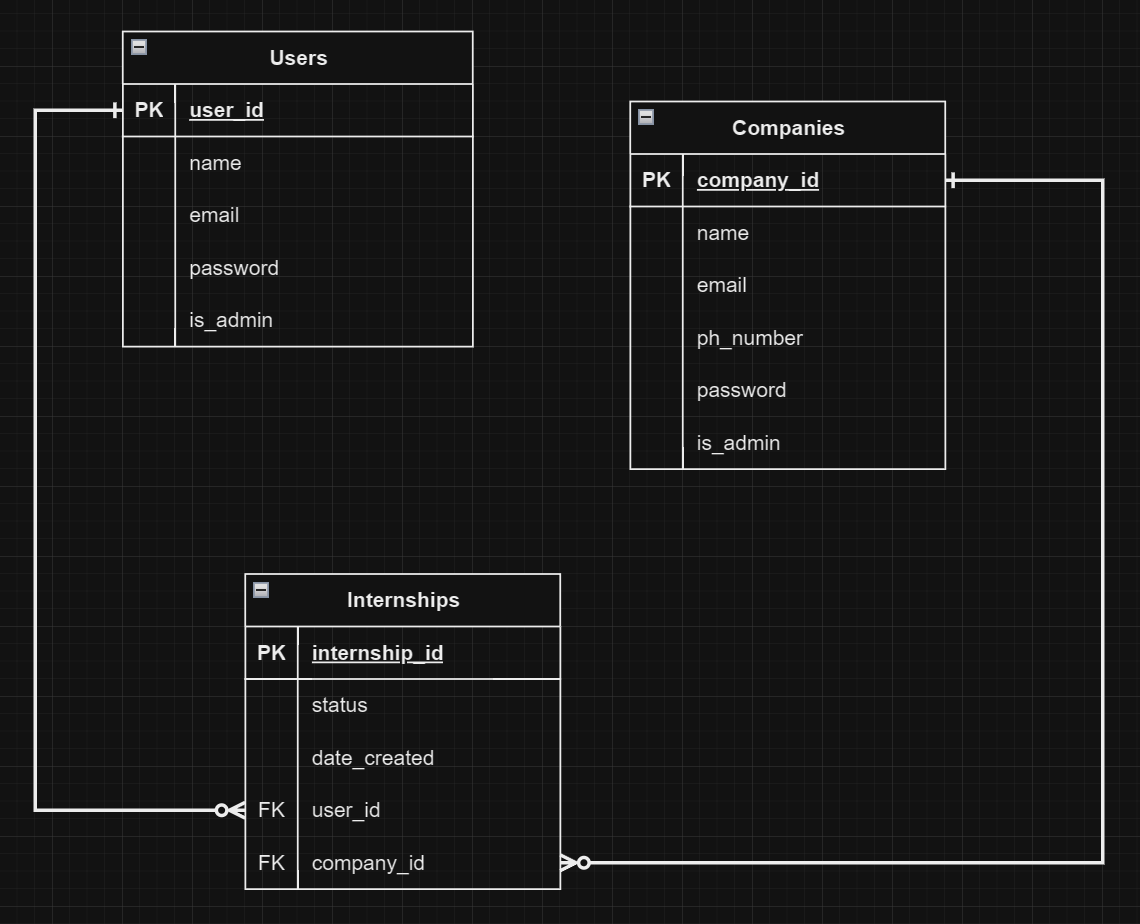
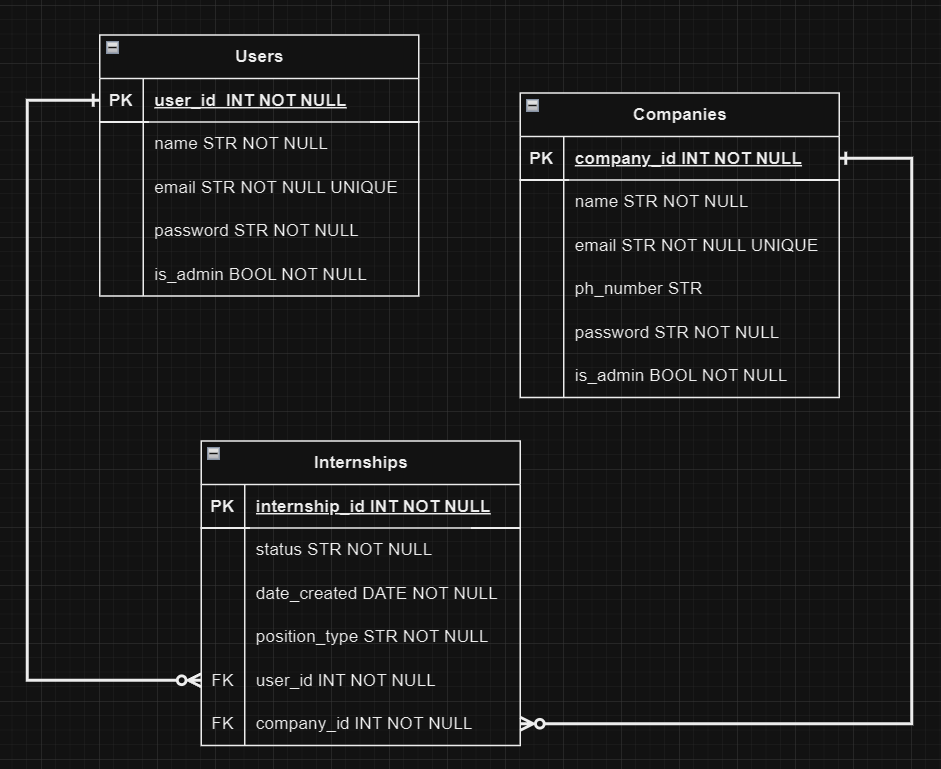
Completed R9, will start coding later today after CS Fundamentals lesson

Changed region(s): [[0.0308, 0.0936, 0.9862, 0.9987], [0.0, 0.0312, 0.4623, 0.8739], [0.5239, 0.5618, 0.5547, 0.593]]

diff --git a/README.md b/README.md
@@ -230,6 +230,10 @@ By confirming a JWT token exists within the authorization header, we add an extr
 
 This lets us reference .env files and set them as global variables. It reads the file as key-value pairs and sets the key to the variable name and the value to the key's content. More specifically, we use this to reference a .gitignored file called .flaskenv that contains our JWT Key and our Connection String so that we don't push sensitive information to our GitHub, but rather store it locally.
 
+- **PostgreSQL**
+
+PostgreSQL is an open source database management system for relational databases with a huge amount of compatability with various Frameworks and operating systems.
+
 ## R8: Describe your projects models in terms of the relationships they have with each other
 
 There are three Models in this project: Users, Companies, and Internships. 
@@ -244,6 +248,8 @@ Nested Models: Internship attibute id, status.
 
 Users((PK)user_id, name, email, password, is_admin)
 
+TODO: Screenshots of MODEL
+
 **Companies**
 
 The Companies Model will relate to the Internships Model alonside the user_id with its own foreign key of company_id, as an Internship obviously has to be related to a company. This will back populate the company using the the Internships Model.
@@ -254,9 +260,11 @@ Nested Models: Internships attibute id, position_type, status.
 
 Companies((PK)company_id, name, email, ph_number, password, is_admin)
 
+TODO: Screenshots of MODEL
+
 **Internships**
 
-Unlike either the Users or Companies Models, the Internships Model relates back to each Model in the ERD. This is because it contains both the user_id and the company_id foreign keys, as there can be no Internship without a user (student) and a company.
+Unlike either the Users or Companies Models, the Internships Model relates back to each Entity in the ERD. This is because it contains both the user_id and the company_id foreign keys, as there can be no Internship without a user (student) and a company.
 
 Relationships: Companies = Many-To-One. Users = Many-To-One.
 
@@ -264,9 +272,15 @@ Nested Models: Users attibute name. Companies attribute name.
 
 Internships((PK)company_id, status, date_created, position_type, (FK)user_id, (FK)company_id)
 
+TODO: Screenshots of MODEL
+
 ## R9: Discuss the database relations to be implemented in your application
 
+To begin with I will create a database called "Partnerships" using PostgreSQL. From there I will create the tables Users, Companies, and Internships. These tables all consist of a primary key which will be used for identification. (E.G Users primary key is user_id, even when referenced in another table).
 
+Since it's a relational database, we need a way to *relate* tables to one another. This is done by the use of foregin keys within the tables themselves whenever a connection is established between two tables. For instance, the Internships table has two foreign keys: user_id and company_id. The definition of these keys establishes the relationship within the database. However it's to be noted that not every table relates to every other table. Users doesn't relate to Companies, and vice versa. Their only connection is through the Internships table.
+
+Although tables are created at the API (Flask) level, they must still relate on a database level. Luckily, SQLAlchemy gives us a way to create the connections so that they exist on a database level while still being accessible via Flask.
 
 ## R10: Describe the way tasks are allocated and tracked in your project
 
